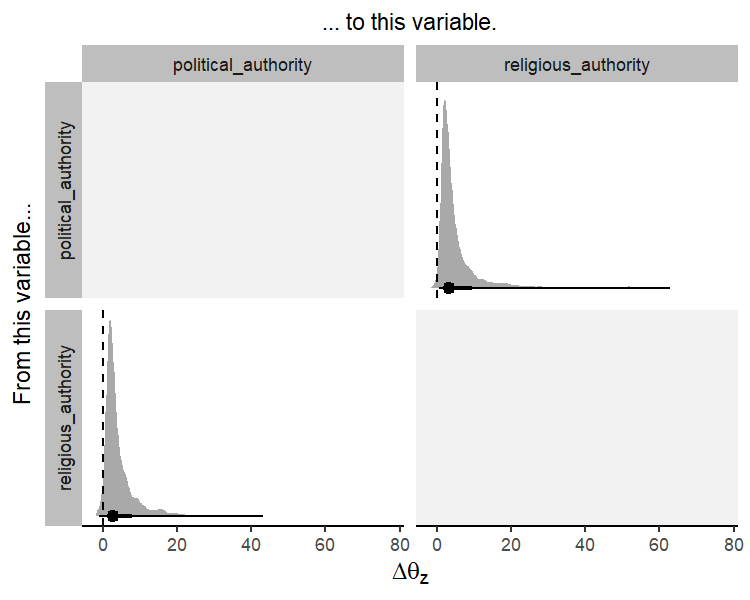
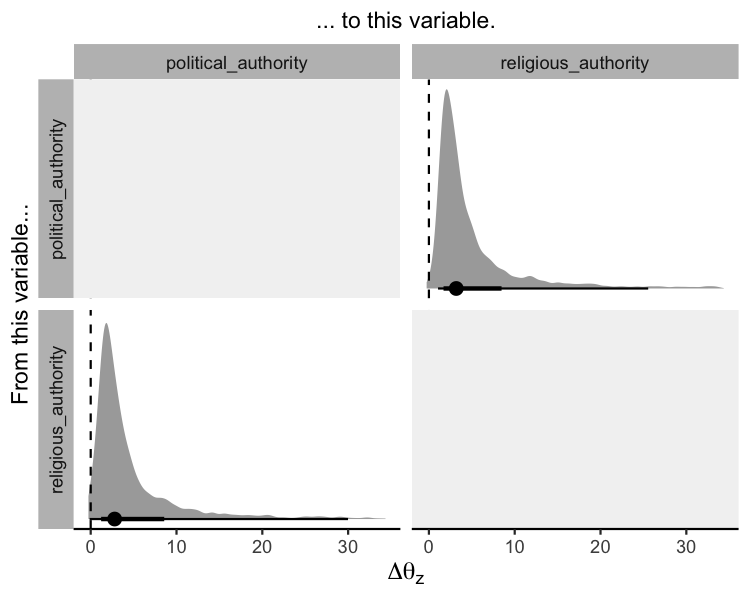
Update README

Changed region(s): [[0.0, 0.0, 1.0, 0.99]]

diff --git a/README.md b/README.md
@@ -7,21 +7,24 @@
 
 <!-- badges: start -->
 
-[![Project Status: Active – The project has reached a stable, usable state and is being actively developed.](https://www.repostatus.org/badges/latest/active.svg)](https://www.repostatus.org/#active)
+[![Project Status: Active – The project has reached a stable, usable
+state and is being actively
+developed.](https://www.repostatus.org/badges/latest/active.svg)](https://www.repostatus.org/#active)
 [![R-CMD-check](https://github.com/ScottClaessens/coevolve/actions/workflows/R-CMD-check.yaml/badge.svg)](https://github.com/ScottClaessens/coevolve/actions/workflows/R-CMD-check.yaml)
-[![Codecov test coverage](https://codecov.io/gh/ScottClaessens/coevolve/graph/badge.svg)](https://app.codecov.io/gh/ScottClaessens/coevolve)
+[![Codecov test
+coverage](https://codecov.io/gh/ScottClaessens/coevolve/graph/badge.svg)](https://app.codecov.io/gh/ScottClaessens/coevolve)
 [![lint](https://github.com/ScottClaessens/coevolve/actions/workflows/lint.yaml/badge.svg)](https://github.com/ScottClaessens/coevolve/actions?query=workflow%3Alint)
-[![Status at rOpenSci Software Peer Review](https://badges.ropensci.org/717_status.svg)](https://github.com/ropensci/software-review/issues/717)
-
+[![Status at rOpenSci Software Peer
+Review](https://badges.ropensci.org/717_status.svg)](https://github.com/ropensci/software-review/issues/717)
 <!-- badges: end -->
 
 ## Overview
 
 The **coevolve** package allows the user to fit Bayesian generalized
 dynamic phylogenetic models in Stan. These models can be used to
-estimate how variables have coevolved over evolutionary time and to
-assess causal directionality (X → Y vs. Y → X) and contingencies (X,
-then Y) in evolution.
+estimate how traits have coevolved over evolutionary time and to assess
+causal directionality (X → Y vs. Y → X) and contingencies (X, then Y) in
+evolution.
 
 While existing methods only allow pairs of binary traits to coevolve
 (e.g.,
@@ -72,15 +75,15 @@ fit <-
   )
 #> Running MCMC with 4 parallel chains...
 #> 
-#> Chain 1 finished in 441.6 seconds.
-#> Chain 2 finished in 582.9 seconds.
-#> Chain 3 finished in 621.8 seconds.
-#> Chain 4 finished in 626.9 seconds.
+#> Chain 3 finished in 252.4 seconds.
+#> Chain 4 finished in 258.9 seconds.
+#> Chain 1 finished in 348.7 seconds.
+#> Chain 2 finished in 357.2 seconds.
 #> 
 #> All 4 chains finished successfully.
-#> Mean chain execution time: 568.3 seconds.
-#> Total execution time: 627.2 seconds.
-#> Warning: 22 of 4000 (1.0%) transitions ended with a divergence.
+#> Mean chain execution time: 304.3 seconds.
+#> Total execution time: 357.3 seconds.
+#> Warning: 7 of 4000 (0.0%) transitions ended with a divergence.
 #> See https://mc-stan.org/misc/warnings for details.
 ```
 
@@ -97,34 +100,34 @@ summary(fit)
 #> 
 #> Autoregressive selection effects:
 #>                     Estimate Est.Error  2.5% 97.5% Rhat Bulk_ESS Tail_ESS
-#> political_authority    -0.67      0.53 -1.99 -0.03 1.00     2120     1768
-#> religious_authority    -0.78      0.59 -2.20 -0.03 1.00     2260     1766
+#> political_authority    -0.64      0.53 -1.96 -0.02 1.00     2282     2149
+#> religious_authority    -0.81      0.57 -2.16 -0.04 1.00     2639     2106
 #> 
 #> Cross selection effects:
 #>                                           Estimate Est.Error  2.5% 97.5% Rhat Bulk_ESS Tail_ESS
-#> political_authority ⟶ religious_authority     2.32      1.03  0.38  4.45 1.00     1567     1971
-#> religious_authority ⟶ political_authority     1.82      1.11 -0.28  4.07 1.00     1288     2124
+#> political_authority ⟶ religious_authority     2.34      0.96  0.42  4.29 1.01     1508     1853
+#> religious_authority ⟶ political_authority     1.68      1.08 -0.42  3.83 1.00     1067     2030
 #> 
 #> Drift parameters:
 #>                                              Estimate Est.Error  2.5% 97.5% Rhat Bulk_ESS Tail_ESS
-#> sd(political_authority)                          1.95      0.83  0.27  3.50 1.01      801     1193
-#> sd(religious_authority)                          1.29      0.80  0.06  2.94 1.00      761     1327
-#> cor(political_authority,religious_authority)     0.26      0.32 -0.44  0.78 1.00     2732     2641
+#> sd(political_authority)                          2.01      0.83  0.25  3.60 1.01      643      602
+#> sd(religious_authority)                          1.25      0.79  0.08  2.96 1.02      734     1737
+#> cor(political_authority,religious_authority)     0.26      0.31 -0.41  0.77 1.00     2760     2512
 #> 
 #> Continuous time intercept parameters:
 #>                     Estimate Est.Error  2.5% 97.5% Rhat Bulk_ESS Tail_ESS
-#> political_authority     0.21      0.95 -1.56  2.09 1.00     4088     1162
-#> religious_authority     0.21      0.94 -1.65  2.06 1.00     5112     2655
+#> political_authority     0.23      0.94 -1.60  2.07 1.00     4889     2814
+#> religious_authority     0.31      0.94 -1.51  2.19 1.00     5071     2710
 #> 
 #> Ordinal cutpoint parameters:
 #>                        Estimate Est.Error  2.5% 97.5% Rhat Bulk_ESS Tail_ESS
-#> political_authority[1]    -1.31      0.91 -3.12  0.51 1.00     2736     2683
-#> political_authority[2]    -0.56      0.89 -2.32  1.24 1.00     3129     2891
-#> political_authority[3]     1.64      0.92 -0.10  3.55 1.00     3268     2956
-#> religious_authority[1]    -1.53      0.92 -3.31  0.24 1.00     3019     3066
-#> religious_authority[2]    -0.84      0.90 -2.59  0.94 1.00     3329     3051
-#> religious_authority[3]     1.60      0.95 -0.17  3.51 1.00     3205     3102
-#> Warning: There were 22 divergent transitions after warmup.
+#> political_authority[1]    -1.32      0.88 -3.05  0.43 1.00     2746     2770
+#> political_authority[2]    -0.57      0.86 -2.28  1.14 1.00     3083     2967
+#> political_authority[3]     1.63      0.88 -0.06  3.48 1.00     3629     3113
+#> religious_authority[1]    -1.50      0.92 -3.28  0.31 1.00     3289     2605
+#> religious_authority[2]    -0.81      0.91 -2.59  0.96 1.00     3582     2759
+#> religious_authority[3]     1.63      0.92 -0.12  3.49 1.00     3786     3337
+#> Warning: There were 7 divergent transitions after warmup.
 #> http://mc-stan.org/misc/warnings.html#divergent-transitions-after-warmup
 ```
 
@@ -150,8 +153,8 @@ of one variable which results from a one median absolute deviation
 increase in another variable.
 
 ``` r
-coev_plot_delta_theta(fit)
-#> Warning: Removed 235 rows containing non-finite outside the scale range (`stat_density()`).
+coev_plot_delta_theta(fit, prob_outer = 0.90)
+#> Warning: Removed 518 rows containing non-finite outside the scale range (`stat_density()`).
 ```
 
 <img src="man/figures/README-authority-delta-theta-1.png" alt="Plot showing the posterior distributions of delta theta for both directions of coevolution between political and religious authority. The bulk of the posterior densities are greater than zero." width="60%" style="display: block; margin: auto;" />
@@ -162,48 +165,6 @@ an increase in the optimal trait value for religious authority, and vice
 versa. In other words, these two variables reciprocally coevolve over
 evolutionary time.
 
-### Optional: Accelerated sampling (`nuts_sampler`)
-
-Sampling is selected with a single argument:
-
-- **`nuts_sampler = "stan"`** (default): Stan model via **CmdStan** /
-  **cmdstanr** (Stan’s built-in HMC/NUTS).
-- **`nuts_sampler = "nutpie"`**: uses JAX to compute gradients and
-  **nutpie**’s Rust NUTS sampler for fast, parallel sampling.
-
-#### Setup
-
-The nutpie backend requires Python with JAX, NumPyro, and nutpie.
-Install them with:
-
-``` bash
-pip install jax numpyro nutpie
-```
-
-Python dependencies are managed automatically via `reticulate`’s `uv`
-environment. The project `.Rprofile` sets `RETICULATE_PYTHON = "managed"`
-by default, so `reticulate` will install the required packages on first
-use. To pin a specific Python instead, set `RETICULATE_PYTHON` before
-`reticulate` initialises:
-
-``` r
-Sys.setenv(RETICULATE_PYTHON = "/path/to/python")
-```
-
-#### Example: nutpie (recommended accelerated path)
-
-``` r
-fit <- coev_fit(
-  ...,
-  nuts_sampler = "nutpie"
-)
-```
-
-**Note**: If you have previously pointed `reticulate` at a different
-Python (for example an older conda or mamba base environment), restart R
-after changing `RETICULATE_PYTHON` so the new interpreter is picked up
-cleanly.
-
 ## Citing coevolve
 
 When using the **coevolve** package, please cite the following papers:
@@ -212,8 +173,7 @@ When using the **coevolve** package, please cite the following papers:
   methods reveal that resource-use intensification drives the evolution
   of “complex” societies. *EcoEvoRXiv*.
   <https://doi.org/10.32942/osf.io/wfp95>
-- Sheehan, O., Watts, J., Gray, R. D., Bulbulia, J., Claessens, S.,
-  Ringen, E. J., & Atkinson, Q. D. (2023). Coevolution of religious and
-  political authority in Austronesian societies. *Nature Human
-  Behaviour*, *7*(1), 38-45.
-  <https://doi.org/10.1038/s41562-022-01471-y>
+- Ringen, E., Claessens, S., Martin, J. S., & Jaeggi, A. V. (2026).
+  Trait coevolution and causal inference using generalized dynamic
+  phylogenetic models. *Methods in Ecology and Evolution*, *17*(6),
+  1818-1836. <https://doi.org/10.1111/2041-210x.70303>
